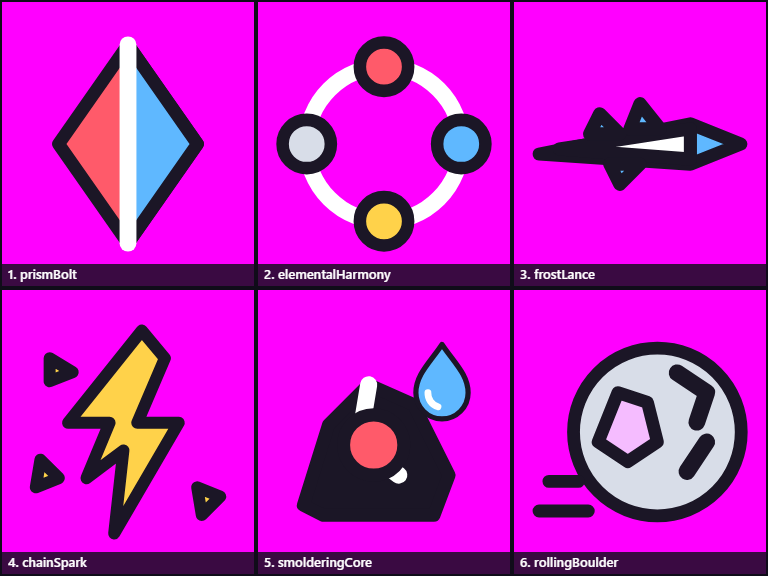
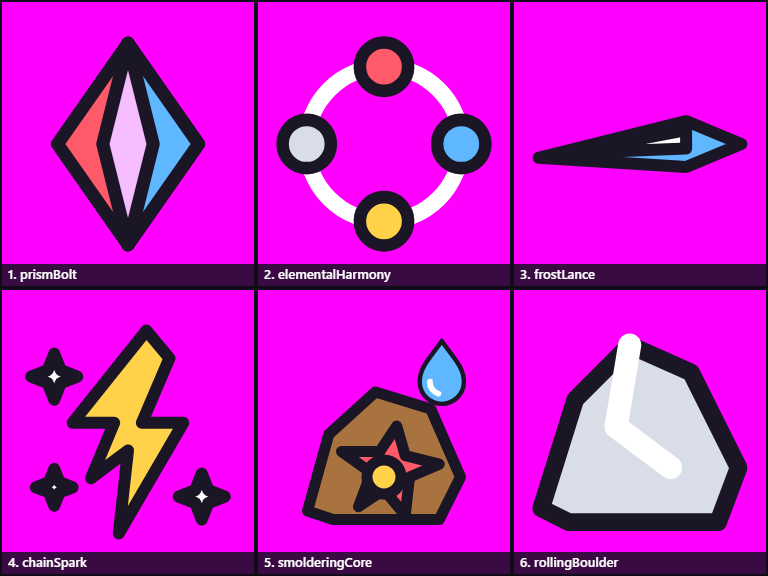
Elementalist drawings: a faceted prism, a cracked rock, a glowing coal (#107)
Claude-Session: https://claude.ai/code/session_014ahczLapsyjHfgmunVY6Sb

diff --git a/src/components/art/glyphs.ts b/src/components/art/glyphs.ts
@@ -280,12 +280,12 @@ export const GLYPHS: Readonly<Record<string, string>> = {
   'skill.wildHunt': P('M34 2a10 10 0 1 0 0 16a12 12 0 0 1 0-16z', 'g') + P('M6 26c8 0 22 4 30 14l4-4c-8-10-22-16-34-14z', 'w') + P('M36 40l6 4 2-6z', 'g') + P('M14 26l-2 6M22 28l-2 6', 'i'),
 
   // ── Elementalist (#95) ──
-  'skill.prismBolt': P('M24 4l14 20-14 20-14-20z', 'r') + P('M24 4l14 20-14 20z', 'u') + P('M24 4v40', 'n'),
+  'skill.prismBolt': P('M24 4l14 20-14 20-14-20z', 'r') + P('M24 4l14 20-14 20z', 'u') + P('M24 4l-5 20 5 20 5-20z', 'b'),
   'skill.elementalHarmony': C(24, 24, 16, 'n') + C(24, 8, 5, 'r') + C(40, 24, 5, 'u') + C(24, 40, 5, 'g') + C(8, 24, 5, 'm'),
-  'skill.frostLance': P('M4 26L34 20l10 4-10 4z', 'u') + P('M8 25L34 21v6z', 'w') + P('M16 18l4 4-6 0zM24 16l4 5-6 0zM20 32l4-4-6 0z', 'u'),
-  'skill.chainSpark': P('M28 2L12 22h9l-5 12 8-6-2 18 14-24h-9l6-14z', 'g') + P('M6 30l4 4-5 2zM40 36l5 2-4 4zM8 8l5 3-5 2z', 'g'),
-  'skill.smolderingCore': ROCK('d') + C(24, 26, 6, 'r') + G('translate(28 4) scale(0.4)', DROP('u')),
-  'skill.rollingBoulder': C(26, 26, 17, 'm') + P('M18 18l6 2 2 8-6 4-6-4z', 'b') + P('M30 14l6 4-2 6M32 34l4-6', 'i') + P('M2 42h10M4 36h6', 'b'),
+  'skill.frostLance': P('M2 27L34 19l12 5-12 5z', 'u') + P('M8 26l26-5v4z', 'w'),
+  'skill.chainSpark': P('M28 2L12 22h9l-5 12 8-6-2 18 14-24h-9l6-14z', 'g') + star(8, 12, 5, 2, 4, 'w', 0) + star(40, 38, 5, 2, 4, 'w', 0) + star(8, 36, 4, 1.6, 4, 'w', 0),
+  'skill.smolderingCore': P('M6 40l5-18 11-10 13 4 7 16-5 10H12z', 'k') + P('M14 26l7 5-3 8 6-4 5 6 1-9 7-3-8-2-2-7-4 6z', 'r') + C(24, 32, 4, 'g') + G('translate(28 -2) scale(0.4)', DROP('u')),
+  'skill.rollingBoulder': G('translate(-6 -8) scale(1.25)', ROCK('m')),
   'skill.thunderSnow': P('M8 18c-6 0-6-10 1-10 0-6 10-8 14-3 4-5 15-3 14 3 7 0 7 10 0 10z', 'b') + star(14, 32, 7, 2.5, 6, 'u', 0) + G('translate(20 18) scale(0.5)', BOLT('g')),
   'skill.spellweave': P('M6 10c12 8 24 20 36 28M6 38c12-8 24-20 36-28', 'n') + star(24, 24, 9, 3.5, 4, 'g', 0),
   'skill.prismaticNova': P('M24 24L24 2M24 24L46 24M24 24L24 46M24 24L2 24', 'n') + C(24, 4, 4, 'r') + C(44, 24, 4, 'u') + C(24, 44, 4, 'g') + C(4, 24, 4, 'm') + C(24, 24, 5, 'w'),

diff --git a/src/game/art/artSheet.ts b/src/game/art/artSheet.ts
@@ -297,12 +297,12 @@ const SKILL_BLURBS: Readonly<Record<string, string>> = {
   leaderOfThePack: 'a leaf-green spirit wolf\'s head seen from the front, wearing a small gold crown between its ears',
   wildHunt: 'a curved hunting horn of pale bone with a gold mouthpiece, a small gold crescent moon above it',
   // Elementalist
-  prismBolt: 'a small diamond-shaped prism, its left half flame orange and its right half ice blue',
+  prismBolt: 'a faceted diamond-shaped crystal prism, its left half flame orange and its right half ice blue, a pale facet down its middle',
   elementalHarmony: 'four small orbs, red, blue, gold and stone grey, sitting on a thin ring',
   frostLance: 'a long spear of clear blue ice pointing to the right, small ice spikes jutting from its shaft',
   chainSpark: 'a jagged gold lightning bolt with three small sparks crackling off it',
-  smolderingCore: 'a dark glowing coal with a red heart and a small blue drop above it',
-  rollingBoulder: 'a big round grey boulder with cracks and a chipped face',
+  smolderingCore: 'a brown-black lump of coal split by bright glowing red-orange cracks, a hot gold core in the middle, a small blue water drop above it',
+  rollingBoulder: 'a big round grey boulder with a few cracks across its face',
   thunderSnow: 'a cloud with a snowflake and a lightning bolt falling from it',
   spellweave: 'two crossing ribbons of light with a gold four-pointed star where they cross',
   prismaticNova: 'a burst of four coloured rays from a white centre dot: red, blue, gold and grey',

diff --git a/art-sheets/PROMPTS-SKILLS.md b/art-sheets/PROMPTS-SKILLS.md
@@ -2434,12 +2434,12 @@ EACH PANEL IS ONE CHUNKY PAINTED OBJECT OR BURST OF ENERGY — NOT A FLAT SYMBOL
 · The game draws its own coloured frame around each one. Nothing here sits on a tile, badge, ring or disc.
 
 WHAT EACH PANEL IS:
-Panel 1 (row 1, column 1): a small diamond-shaped prism, its left half flame orange and its right half ice blue.
+Panel 1 (row 1, column 1): a faceted diamond-shaped crystal prism, its left half flame orange and its right half ice blue, a pale facet down its middle.
 Panel 2 (row 1, column 2): four small orbs, red, blue, gold and stone grey, sitting on a thin ring. Keep this one compact, well away from its panel's four corners (the game crops it to a circle). Do NOT draw a circle, ring, disc or badge around or behind it.
 Panel 3 (row 1, column 3): a long spear of clear blue ice pointing to the right, small ice spikes jutting from its shaft.
 Panel 4 (row 2, column 1): a jagged gold lightning bolt with three small sparks crackling off it.
-Panel 5 (row 2, column 2): a dark glowing coal with a red heart and a small blue drop above it. Keep this one compact, well away from its panel's four corners (the game crops it to a circle). Do NOT draw a circle, ring, disc or badge around or behind it.
-Panel 6 (row 2, column 3): a big round grey boulder with cracks and a chipped face.
+Panel 5 (row 2, column 2): a brown-black lump of coal split by bright glowing red-orange cracks, a hot gold core in the middle, a small blue water drop above it. Keep this one compact, well away from its panel's four corners (the game crops it to a circle). Do NOT draw a circle, ring, disc or badge around or behind it.
+Panel 6 (row 2, column 3): a big round grey boulder with a few cracks across its face.
 
 COLOUR — ONE accent for the whole sheet: magenta (about #e86bff). Wherever the reference uses that colour, yours does; white, gold, steel, wood, red, green and blue details keep the colours the reference gives them. Take the HUE, not the flatness.
 

diff --git a/art-sheets/PAINT-STATUS.md b/art-sheets/PAINT-STATUS.md
@@ -38,7 +38,7 @@ after painting or slicing anything.
 | ✓ | **Skill icons: Lightbringer (2 of 2)** | `PROMPTS-SKILLS.md` | `sheet-skills2-lightbringer.png` (rev `c53ac606e411`) | sliced 2026-10-11 |
 | ✓ | **Skill icons: Beastcaller** | `PROMPTS-SKILLS.md` | `sheet-skills-beastcaller.png` (rev `297a1ae74d6f`) | sliced 2026-10-11 |
 | ✓ | **Skill icons: Beastcaller (2 of 2)** | `PROMPTS-SKILLS.md` | `sheet-skills2-beastcaller.png` (rev `b875613cce10`) | sliced 2026-10-11 |
-| · | **Skill icons: Elementalist** | `PROMPTS-SKILLS.md` | `sheet-skills-elementalist.png` (rev `dcb515f85ebe`) | not painted yet |
+| · | **Skill icons: Elementalist** | `PROMPTS-SKILLS.md` | `sheet-skills-elementalist.png` (rev `e9c017869c92`) | not painted yet |
 | · | **Skill icons: Elementalist (2 of 2)** | `PROMPTS-SKILLS.md` | `sheet-skills2-elementalist.png` (rev `32983c7ed53c`) | not painted yet |
 | · | **Skill icons: Soul Warden** | `PROMPTS-SKILLS.md` | `sheet-skills-soulwarden.png` (rev `4f8e6a467369`) | not painted yet |
 | · | **Skill icons: Soul Warden (2 of 2)** | `PROMPTS-SKILLS.md` | `sheet-skills2-soulwarden.png` (rev `97f0e4862e97`) | not painted yet |
